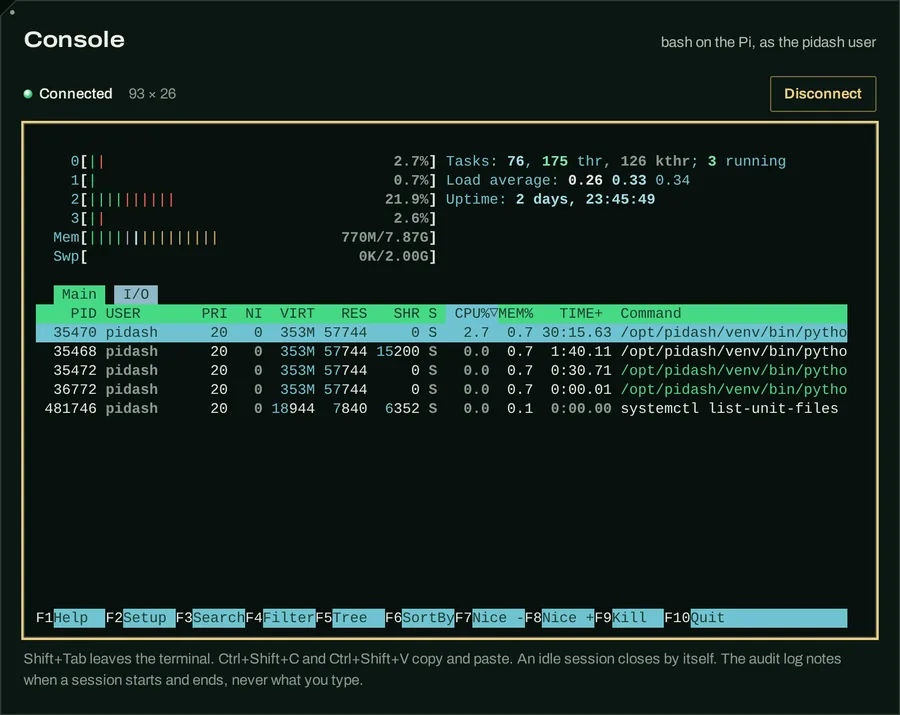
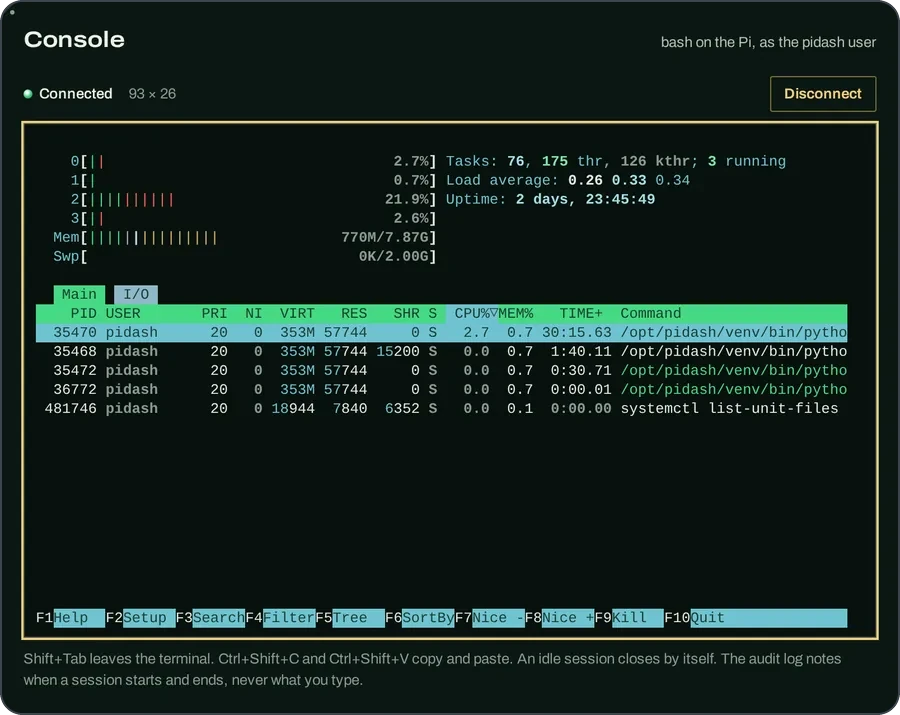
docs: README gallery lines up, screenshots framed for GitHub's dark theme
- The screenshots get rounded corners and a hairline frame (GitHub's own
  dark-theme border grey), so the dark shots keep their edges on
  github.com's dark background. /tmp/pidash-rd/frame.py-style: built from
  the originals in 95e1e8f.
- Each gallery row is its own table: paired shots are sized to the same
  height, and every row shares the same left and right edges.
- The header uses the favicon (a rounded tile) instead of the square app
  icon.
- Small wording fixes: the udev rule also parks the kernel's fan curve;
  the Bookworm row names the error you actually see; updating when you
  built elsewhere.

diff --git a/README.md b/README.md
@@ -1,6 +1,6 @@
 <div align="center">
 
-<img src="frontend/public/icon.svg" width="96" alt="">
+<img src="frontend/public/favicon.svg" width="96" alt="">
 
 # pidash
 
@@ -52,18 +52,24 @@ service restarts and a terminal. Open it from your phone or laptop, privately, o
 
 <table>
   <tr>
-    <td valign="top"><img src="docs/images/services.webp" width="380" alt="The Services card: search, filters and a table of systemd services, each row with a logs and a restart button"><br><sub>Every service, with <b>logs</b> and <b>restart</b> on each row</sub></td>
-    <td valign="top"><img src="docs/images/system.webp" width="380" alt="The System card: Update, Reboot and Shut down, a reboot-needed notice and the finished update's log"><br><sub>Update, reboot or shut down. Each asks first. (Demo data)</sub></td>
+    <td valign="top"><img src="docs/images/services.webp" width="389" alt="The Services card: search, filters and a table of systemd services, each row with a logs and a restart button"><br><sub>Every service, with <b>logs</b> and <b>restart</b> on each row</sub></td>
+    <td valign="top"><img src="docs/images/system.webp" width="381" alt="The System card: Update, Reboot and Shut down, a reboot-needed notice and the finished update's log"><br><sub>Update, reboot or shut down. Each asks first. (Demo data)</sub></td>
   </tr>
+</table>
+<table>
   <tr>
-    <td valign="top"><img src="docs/images/service-logs.webp" width="380" alt="A service's logs in a dialog, with Follow on and All, Warnings and Errors filters"><br><sub>Any service's logs, following new lines as they come</sub></td>
-    <td valign="top"><img src="docs/images/console.webp" width="380" alt="The Console card running htop on the Pi"><br><sub>A real shell on the Pi, here running <code>htop</code></sub></td>
+    <td valign="top"><img src="docs/images/service-logs.webp" width="408" alt="A service's logs in a dialog, with Follow on and All, Warnings and Errors filters"><br><sub>Any service's logs, following new lines as they come</sub></td>
+    <td valign="top"><img src="docs/images/console.webp" width="362" alt="The Console card running htop on the Pi"><br><sub>A real shell on the Pi, here running <code>htop</code></sub></td>
   </tr>
+</table>
+<table>
   <tr>
-    <td colspan="2" valign="top"><img src="docs/images/fan-curve.webp" width="786" alt="The fan curve editor: the Performance curve, its cooling line, the live temperature marker and the 80 °C failsafe zone"><br><sub>Pick a fan profile or draw your own curve. The dot shows where the fan is right now.</sub></td>
+    <td valign="top"><img src="docs/images/fan-curve.webp" width="797" alt="The fan curve editor: the Performance curve, its cooling line, the live temperature marker and the 80 °C failsafe zone"><br><sub>Pick a fan profile or draw your own curve. The dot shows where the fan is right now.</sub></td>
   </tr>
+</table>
+<table>
   <tr>
-    <td colspan="2" valign="top"><img src="docs/images/low-power.webp" width="786" alt="The low-power view: a flat 2D drawing of the board with the same live readings, the health verdict and the fan profiles"><br><sub>The low-power 2D view: the same live readings, easy on an old laptop's battery</sub></td>
+    <td valign="top"><img src="docs/images/low-power.webp" width="797" alt="The low-power view: a flat 2D drawing of the board with the same live readings, the health verdict and the fan profiles"><br><sub>The low-power 2D view: the same live readings, easy on an old laptop's battery</sub></td>
   </tr>
 </table>
 
@@ -171,7 +177,7 @@ To update later, run `git pull` and these same steps again.
 | The backend in its own Python venv, and the built web page | `/opt/pidash` |
 | Your settings and the token | `/etc/pidash/pidash.env` (root:pidash, 0640) |
 | The saved fan profile and custom curve, and the audit log | `/var/lib/pidash/` |
-| A udev rule that lets `pidash` set the fan speed, and nothing else | `/etc/udev/rules.d/90-pidash-fan.rules` |
+| A udev rule that lets `pidash` set the fan speed and park the kernel's fan curve, and nothing else | `/etc/udev/rules.d/90-pidash-fan.rules` |
 | A sudoers rule for the four root actions (see [Configuration](#configuration)) | `/etc/sudoers.d/pidash` |
 | The system update unit (`apt-get update`, then `upgrade`) | `/etc/systemd/system/pidash-update.service` |
 | A systemd service that starts at boot and restarts if it fails | `/etc/systemd/system/pidash.service` |
@@ -240,7 +246,7 @@ pidash runs as its own user, `pidash`, which has no root rights. Four buttons ne
 ```text
 systemctl reboot
 systemctl poweroff
-systemctl start --no-block pidash-update.service     (runs apt-get update, then upgrade)
+systemctl start --no-block pidash-update.service    # the update: apt-get update, then upgrade
 systemctl restart --no-block -- <one-unit>.service
 ```
 
@@ -269,7 +275,8 @@ systemctl restart --no-block -- <one-unit>.service
   group by default, that shell is as good as root. If you don't want that, set `PIDASH_CONSOLE=0` or install with
   `--no-docker`. Sessions close after 15 minutes without typing, and at most 3 run at once.
 - **Least privilege.** The service runs as `pidash`, with `/usr` and `/etc` read-only and no access to `/home`.
-  It can set the fan speed and nothing else in `/sys`, and as root it can run only the four commands above.
+  In `/sys` it can only set the fan speed and park the kernel's fan curve, and as root it can run only the four
+  commands above.
 - **An audit trail.** Every change, and each console session's start and end, is logged to
   `/var/lib/pidash/audit.log` and to the journal. What you type in the console is never logged.
 - **Nothing is loaded from the internet.** Fonts, the 3D view and the terminal are all served by the Pi.
@@ -285,6 +292,8 @@ cd ~/pidash && git pull
 cd frontend && npm ci && npm run build
 cd ~/pidash && sudo ./install.sh
 ```
+
+Built on another computer? Pull and build there, then copy it over and run `sudo ./install.sh` on the Pi again.
 
 **Your Pi's software.** Use **Update** in the dashboard's System card. It installs every pending Raspberry Pi OS
 update, keeps the config files you've changed, and never removes a package.
@@ -322,7 +331,7 @@ sudo apt-get remove --autoremove nodejs npm   # only if you installed Node.js ju
 | A service's logs say "can't read the system journal" | `pidash` isn't in the `systemd-journal` group yet. Run `sudo ./install.sh` again |
 | An update fails with `Could not get lock` | apt was busy, for example with automatic updates. Nothing changed: try again in a few minutes. The full log is in `/var/log/pidash-update.log` |
 | `install.sh` fails while installing the Python packages | The Pi needs internet access to download them. Fix the connection and run it again |
-| `npm run build` fails with `does not provide an export named 'styleText'` | Your Node.js is older than 20.19, as on Raspberry Pi OS Bookworm. [Build on another computer](#install) instead |
+| `npm run build` fails with a `styleText` error | Your Node.js is older than 20.19, as on Raspberry Pi OS Bookworm. [Build on another computer](#install) instead |
 
 pidash's own log: `journalctl -u pidash -f`.
 
